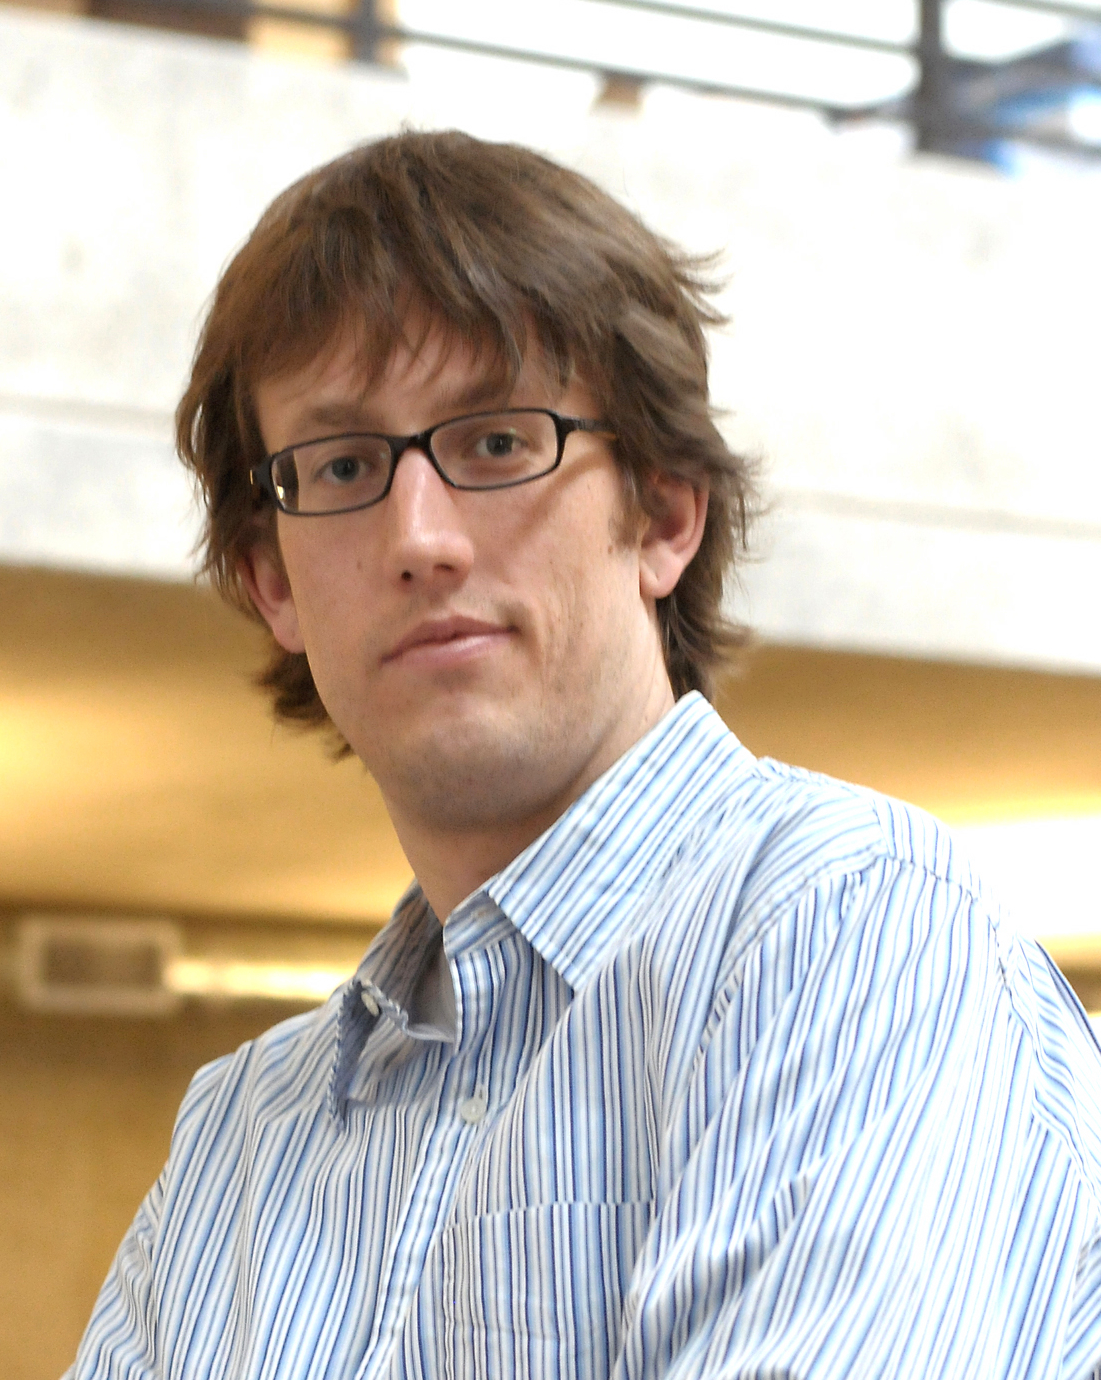
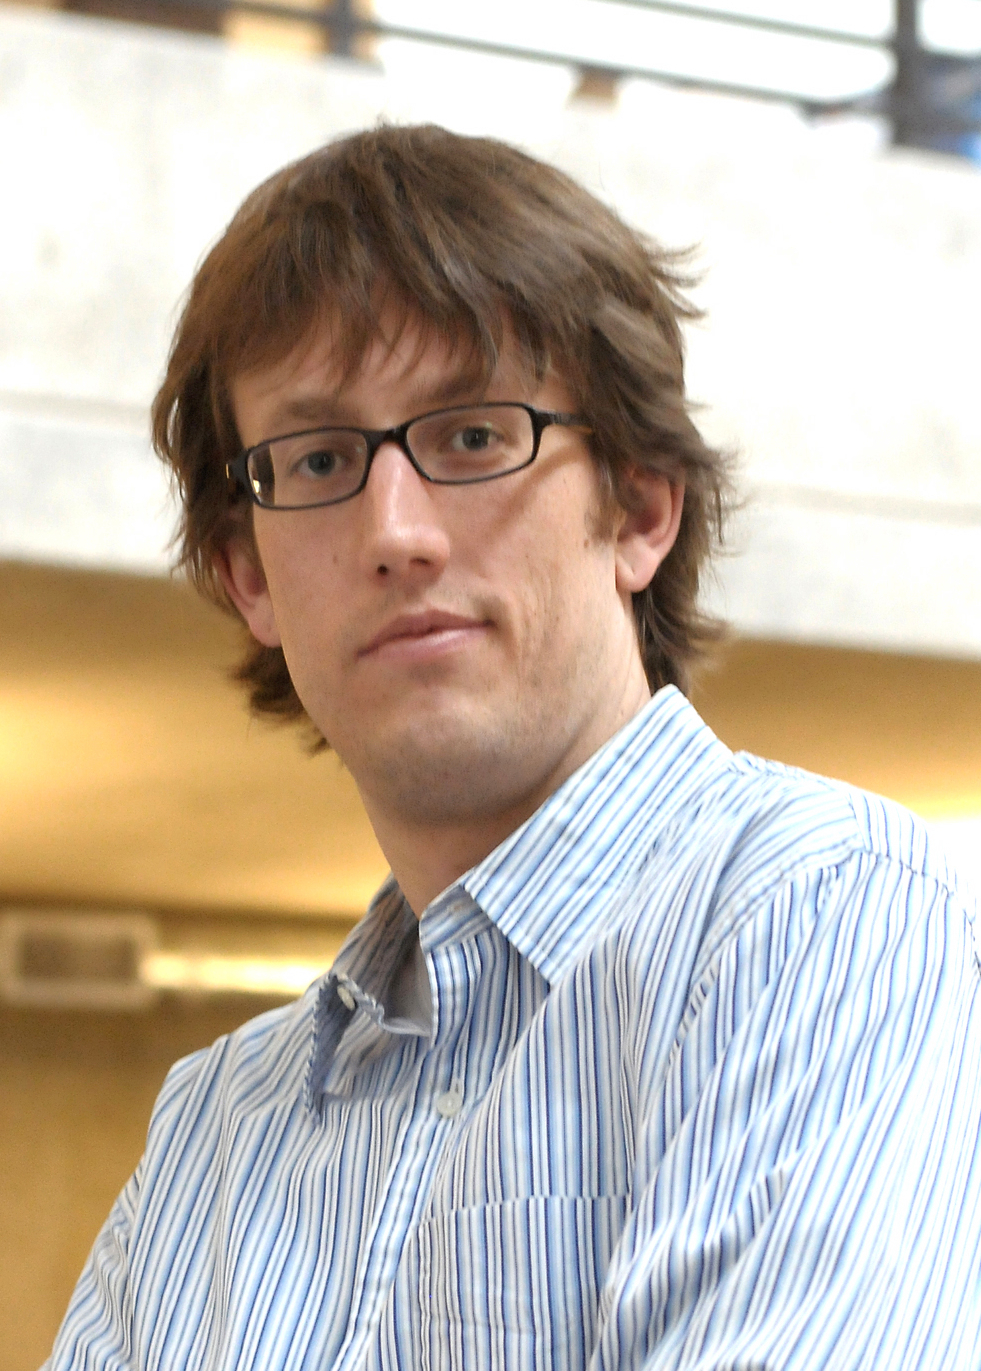
Updating pseudospectrum documentation, adding examples to features, adding a supported compilers page, and slightly tweaking mine and Jeff's pictures.

diff --git a/source/_themes/elemental/layout.html b/source/_themes/elemental/layout.html
@@ -95,6 +95,7 @@
 	  <!--<li><a href="/buildbot/">Buildbot</a></li>--!>
 	  <!--<li><a href="/benchbot/">Benchbot</a></li>--!>
 	  <li><a href="https://github.com/elemental/Elemental/">Elemental on GitHub</a></li>
+          <li><a href="/compilers/">Supported compilers</a></li>
 
 	  <li><a href="/pub/">File archive</a></li>
 	</ul>

diff --git a/source/doc-0.81/conf.py b/source/doc-0.81/conf.py
@@ -199,10 +199,6 @@ htmlhelp_basename = 'ElemDoc'
 # Grouping the document tree into LaTeX files. List of tuples
 # (source start file, target name, title, author, documentclass [howto/manual]).
 latex_documents = [
-  #('demos/index-cpp', 'cpp_demos.tex', u'FEniCS Demos (C++ version)',
-  # u'FEniCS Core, https://launchpad.net/\\textasciitilde{}fenics-core', 'manual'),
-  #('demos/index-python', 'python_demos.tex', u'FEniCS Demos (Python version)',
-  # u'FEniCS Core, https://launchpad.net/\\textasciitilde{}fenics-core', 'manual'),
   ('index', 'Elemental.tex', u'Elemental Manual',
    u'Jack Poulson', 'manual'),
 ]

diff --git a/source/doc-0.82-p1/conf.py b/source/doc-0.82-p1/conf.py
@@ -199,10 +199,6 @@ htmlhelp_basename = 'ElemDoc'
 # Grouping the document tree into LaTeX files. List of tuples
 # (source start file, target name, title, author, documentclass [howto/manual]).
 latex_documents = [
-  #('demos/index-cpp', 'cpp_demos.tex', u'FEniCS Demos (C++ version)',
-  # u'FEniCS Core, https://launchpad.net/\\textasciitilde{}fenics-core', 'manual'),
-  #('demos/index-python', 'python_demos.tex', u'FEniCS Demos (Python version)',
-  # u'FEniCS Core, https://launchpad.net/\\textasciitilde{}fenics-core', 'manual'),
   ('index', 'Elemental.tex', u'Elemental Manual',
    u'Jack Poulson', 'manual'),
 ]

diff --git a/source/doc-0.82/conf.py b/source/doc-0.82/conf.py
@@ -199,10 +199,6 @@ htmlhelp_basename = 'ElemDoc'
 # Grouping the document tree into LaTeX files. List of tuples
 # (source start file, target name, title, author, documentclass [howto/manual]).
 latex_documents = [
-  #('demos/index-cpp', 'cpp_demos.tex', u'FEniCS Demos (C++ version)',
-  # u'FEniCS Core, https://launchpad.net/\\textasciitilde{}fenics-core', 'manual'),
-  #('demos/index-python', 'python_demos.tex', u'FEniCS Demos (Python version)',
-  # u'FEniCS Core, https://launchpad.net/\\textasciitilde{}fenics-core', 'manual'),
   ('index', 'Elemental.tex', u'Elemental Manual',
    u'Jack Poulson', 'manual'),
 ]

diff --git a/source/doc-dev/conf.py b/source/doc-dev/conf.py
@@ -199,10 +199,6 @@ htmlhelp_basename = 'ElemDoc'
 # Grouping the document tree into LaTeX files. List of tuples
 # (source start file, target name, title, author, documentclass [howto/manual]).
 latex_documents = [
-  #('demos/index-cpp', 'cpp_demos.tex', u'FEniCS Demos (C++ version)',
-  # u'FEniCS Core, https://launchpad.net/\\textasciitilde{}fenics-core', 'manual'),
-  #('demos/index-python', 'python_demos.tex', u'FEniCS Demos (Python version)',
-  # u'FEniCS Core, https://launchpad.net/\\textasciitilde{}fenics-core', 'manual'),
   ('index', 'Elemental.tex', u'Elemental Manual',
    u'Jack Poulson', 'manual'),
 ]

diff --git a/source/doc-dev/lapack-like/eigen_svd.rst b/source/doc-dev/lapack-like/eigen_svd.rst
@@ -344,26 +344,36 @@ given matrix, which preserves the :math:`\epsilon`-pseudospectrum, up to
 round-off error, and then simultaneously performs many Lanczos decompositions
 on the inverse normal matrix for each shift in a manner which communicates 
 no more data than a standard triangular solve with many right-hand sides.
-Converged pseudospectrum estimates are deflate after convergence.
+Converged pseudospectrum estimates are deflated after convergence.
 
-.. cpp:function:: Matrix<int> Pseudospectrum( const Matrix<F>& A, const Matrix<Complex<Base<F>>& shifts, Matrix<Base<F>>& invNorms, bool lanczos=true, bool deflate=true, int maxIts=1000, Base<F> tol=1e-6, bool progress=false )
+.. cpp:function:: Matrix<int> Pseudospectrum( const Matrix<F>& A, const Matrix<Complex<Base<F>>>& shifts, Matrix<Base<F>>& invNorms, bool lanczos=true, bool deflate=true, int maxIts=1000, Base<F> tol=1e-6, bool progress=false )
 .. cpp:function:: DistMatrix<int,VR,STAR> Pseudospectrum( const DistMatrix<F>& A, const DistMatrix<Complex<Base<F>>,VR,STAR>& shifts, DistMatrix<Base<F>,VR,STAR>& invNorms, bool lanczos=true, bool deflate=true, int maxIts=1000, Base<F> tol=1e-6, bool progress=false )
+.. cpp:function:: Matrix<int> TriangularPseudospectrum( const Matrix<F>& A, const Matrix<Complex<Base<F>>>& shifts, Matrix<Base<F>>& invNorms, bool lanczos=true, bool deflate=true, int maxIts=1000, Base<F> tol=1e-6, bool progress=false )
+.. cpp:function:: DistMatrix<int,VR,STAR> TriangularPseudospectrum( const DistMatrix<F>& A, const DistMatrix<Complex<Base<F>>,VR,STAR>& shifts, DistMatrix<Base<F>,VR,STAR>& invNorms, bool lanczos=true, bool deflate=true, int maxIts=1000, Base<F> tol=1e-6, bool progress=false )
 
    Returns the norms of the shifted inverses in the vector ``invNorms`` for a 
    given set of shifts. The returned integer vector is a list of the number of 
    iterations required for convergence of each shift.
 
-.. cpp:function:: Matrix<int> Pseudospectrum( const Matrix<F>& A, Matrix<Base<F>>& invNormMap, Complex<Base<F>> center, Base<F> halfWidth, int xSize, int ySize, bool lanczos=true, bool deflate=true, int maxIts=1000, Base<F> tol=1e-6, bool progress=false )
-.. cpp:function:: DistMatrix<int> Pseudospectrum( const DistMatrix<F>& A, DistMatrix<Base<F>>& invNormMap, Complex<Base<F>> center, Base<F> halfWidth, int xSize, int ySize, bool lanczos=true, bool deflate=true, int maxIts=1000, Base<F> tol=1e-6, bool progress=false )
+.. cpp:function:: Matrix<int> Pseudospectrum( const Matrix<F>& A, Matrix<Base<F>>& invNormMap, Complex<Base<F>> center, int xSize, int ySize, bool lanczos=true, bool deflate=true, int maxIts=1000, Base<F> tol=1e-6, bool progress=false )
+.. cpp:function:: DistMatrix<int> Pseudospectrum( const DistMatrix<F>& A, DistMatrix<Base<F>>& invNormMap, Complex<Base<F>> center, int xSize, int ySize, bool lanczos=true, bool deflate=true, int maxIts=1000, Base<F> tol=1e-6, bool progress=false )
+.. cpp:function:: Matrix<int> TriangularPseudospectrum( const Matrix<F>& A, Matrix<Base<F>>& invNormMap, Complex<Base<F>> center, int xSize, int ySize, bool lanczos=true, bool deflate=true, int maxIts=1000, Base<F> tol=1e-6, bool progress=false )
+.. cpp:function:: DistMatrix<int> TriangularPseudospectrum( const DistMatrix<F>& A, DistMatrix<Base<F>>& invNormMap, Complex<Base<F>> center, int xSize, int ySize, bool lanczos=true, bool deflate=true, int maxIts=1000, Base<F> tol=1e-6, bool progress=false )
 
-   Returns the norms of the shifted inverses over the specified 2D grid in the
-   matrix ``invNormMap``. The returned integer matrix corresponds to the number
-   of iterations required for convergence at each shift in the 2D grid.
+   Returns the norms of the shifted inverses over a 2D grid 
+   (in the matrix ``invNormMap``) with the specified x and y resolutions. 
+   The width of the grid in the complex plane is determined based upon the one 
+   and two norms of the Schur factor. The returned integer matrix corresponds 
+   to the number of iterations required for convergence at each shift in the 
+   2D grid.
 
-.. cpp:function:: Matrix<int> TriangularPseudospectrum( const Matrix<F>& A, Matrix<Base<F>>& invNormMap, Complex<Base<F>> center, Base<F> halfWidth, int xSize, int ySize, bool lanczos=true, bool deflate=true, int maxIts=1000, Base<F> tol=1e-6, bool progress=false )
-.. cpp:function:: DistMatrix<int> TriangularPseudospectrum( const DistMatrix<F>& A, DistMatrix<Base<F>>& invNormMap, Complex<Base<F>> center, Base<F> halfWidth, int xSize, int ySize, bool lanczos=true, bool deflate=true, int maxIts=1000, Base<F> tol=1e-6, bool progress=false )
+.. cpp:function:: Matrix<int> Pseudospectrum( const Matrix<F>& A, Matrix<Base<F>>& invNormMap, Complex<Base<F>> center, Base<F> xWidth, Base<F> yWidth, int xSize, int ySize, bool lanczos=true, bool deflate=true, int maxIts=1000, Base<F> tol=1e-6, bool progress=false )
+.. cpp:function:: DistMatrix<int> Pseudospectrum( const DistMatrix<F>& A, DistMatrix<Base<F>>& invNormMap, Complex<Base<F>> center, Base<F> xWidth, Base<F> yWidth, int xSize, int ySize, bool lanczos=true, bool deflate=true, int maxIts=1000, Base<F> tol=1e-6, bool progress=false )
+.. cpp:function:: Matrix<int> TriangularPseudospectrum( const Matrix<F>& A, Matrix<Base<F>>& invNormMap, Complex<Base<F>> center, Base<F> xWidth, Base<F> yWidth, int xSize, int ySize, bool lanczos=true, bool deflate=true, int maxIts=1000, Base<F> tol=1e-6, bool progress=false )
+.. cpp:function:: DistMatrix<int> TriangularPseudospectrum( const DistMatrix<F>& A, DistMatrix<Base<F>>& invNormMap, Complex<Base<F>> center, Base<F> xWidth, Base<F> yWidth, int xSize, int ySize, bool lanczos=true, bool deflate=true, int maxIts=1000, Base<F> tol=1e-6, bool progress=false )
 
-   Same as the above, but no initial Schur decomposition is required.
+   Same as above, but the x and y widths of the 2D grid in the complex plane
+   are manually specified.
 
 Hermitian SVD
 -------------

diff --git a/source/main/compilers/index.rst b/source/main/compilers/index.rst
@@ -1,0 +1,16 @@
+.. _compilers:
+
+###################
+Supported compilers
+###################
+
+C++11 support is required as of Elemental 0.82, and so reasonably up-to-date
+compilers are now necessary. More detailed information will hopefully follow
+soon, but the following compilers have been verified to compile the recent
+releases of Elemental:
+
+* GCC >= 4.7.1
+* Clang >= 3.4
+
+Releases 0.81 and before support the majority of common compilers, with the
+known exception of the Sun Studio Compilers.

diff --git a/source/main/index.rst b/source/main/index.rst
@@ -15,3 +15,4 @@
     citing/index
     support/index
     releases/index
+    compilers/index
